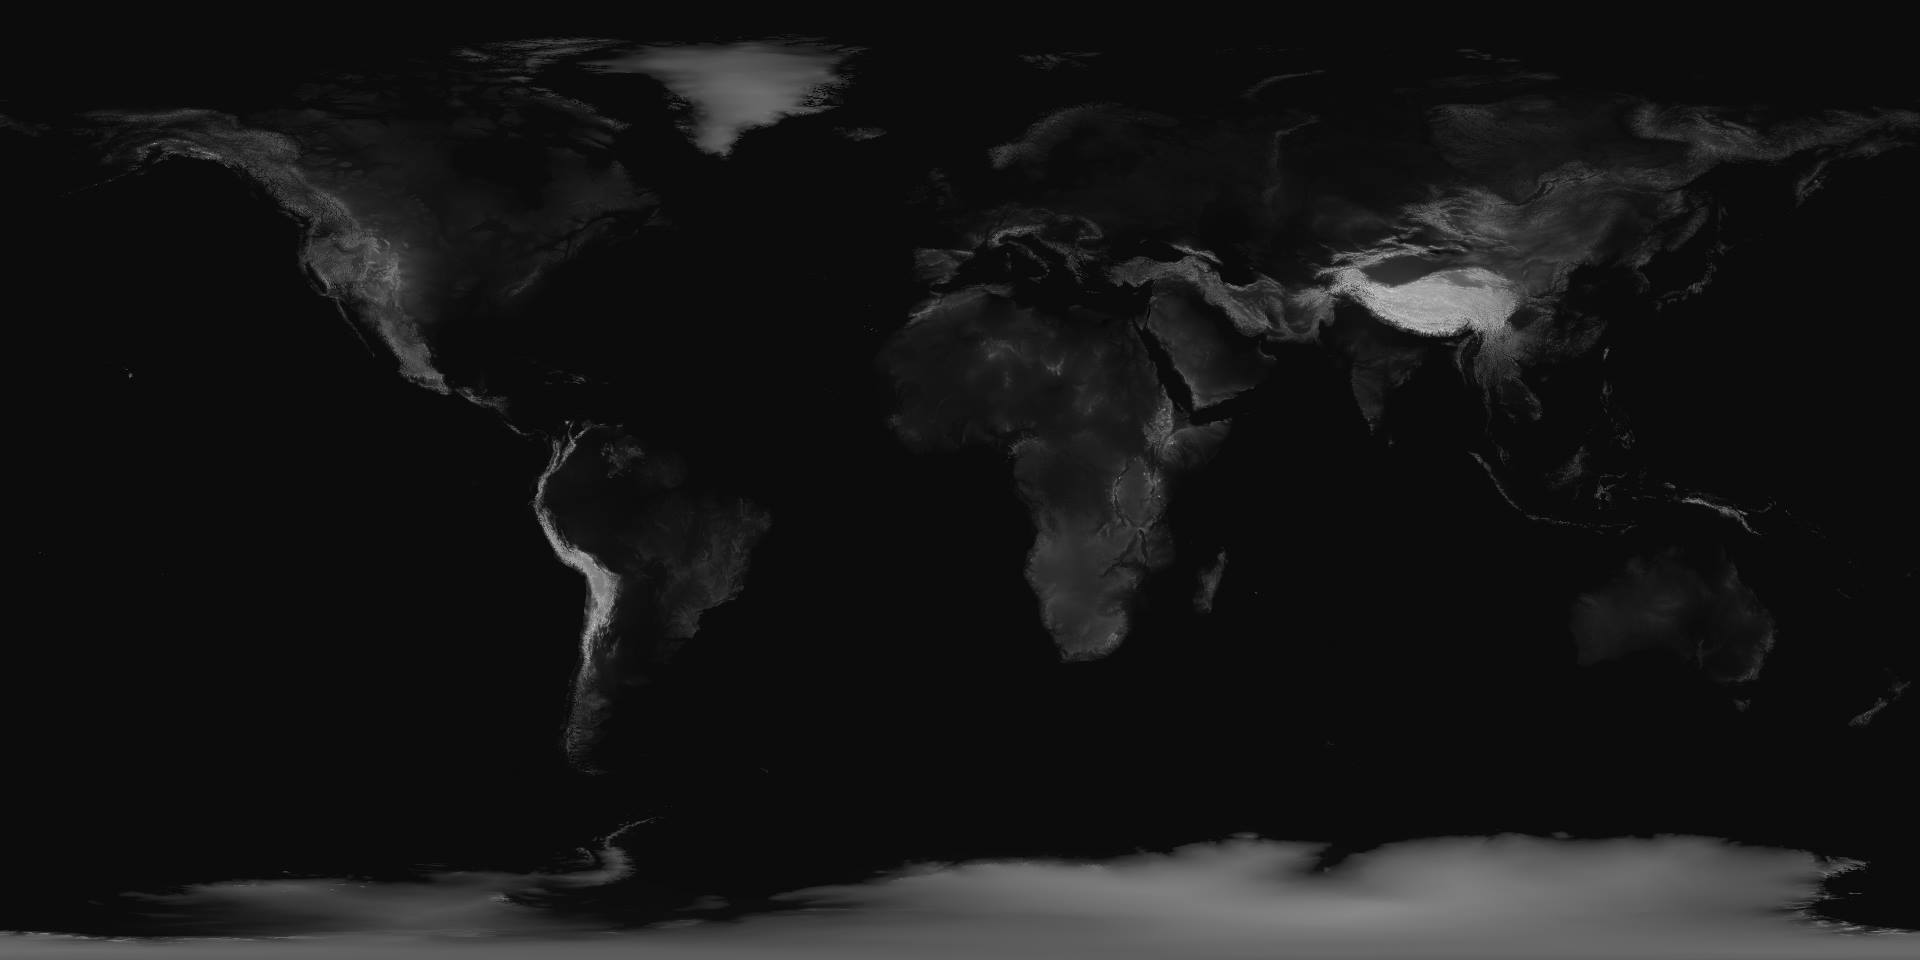
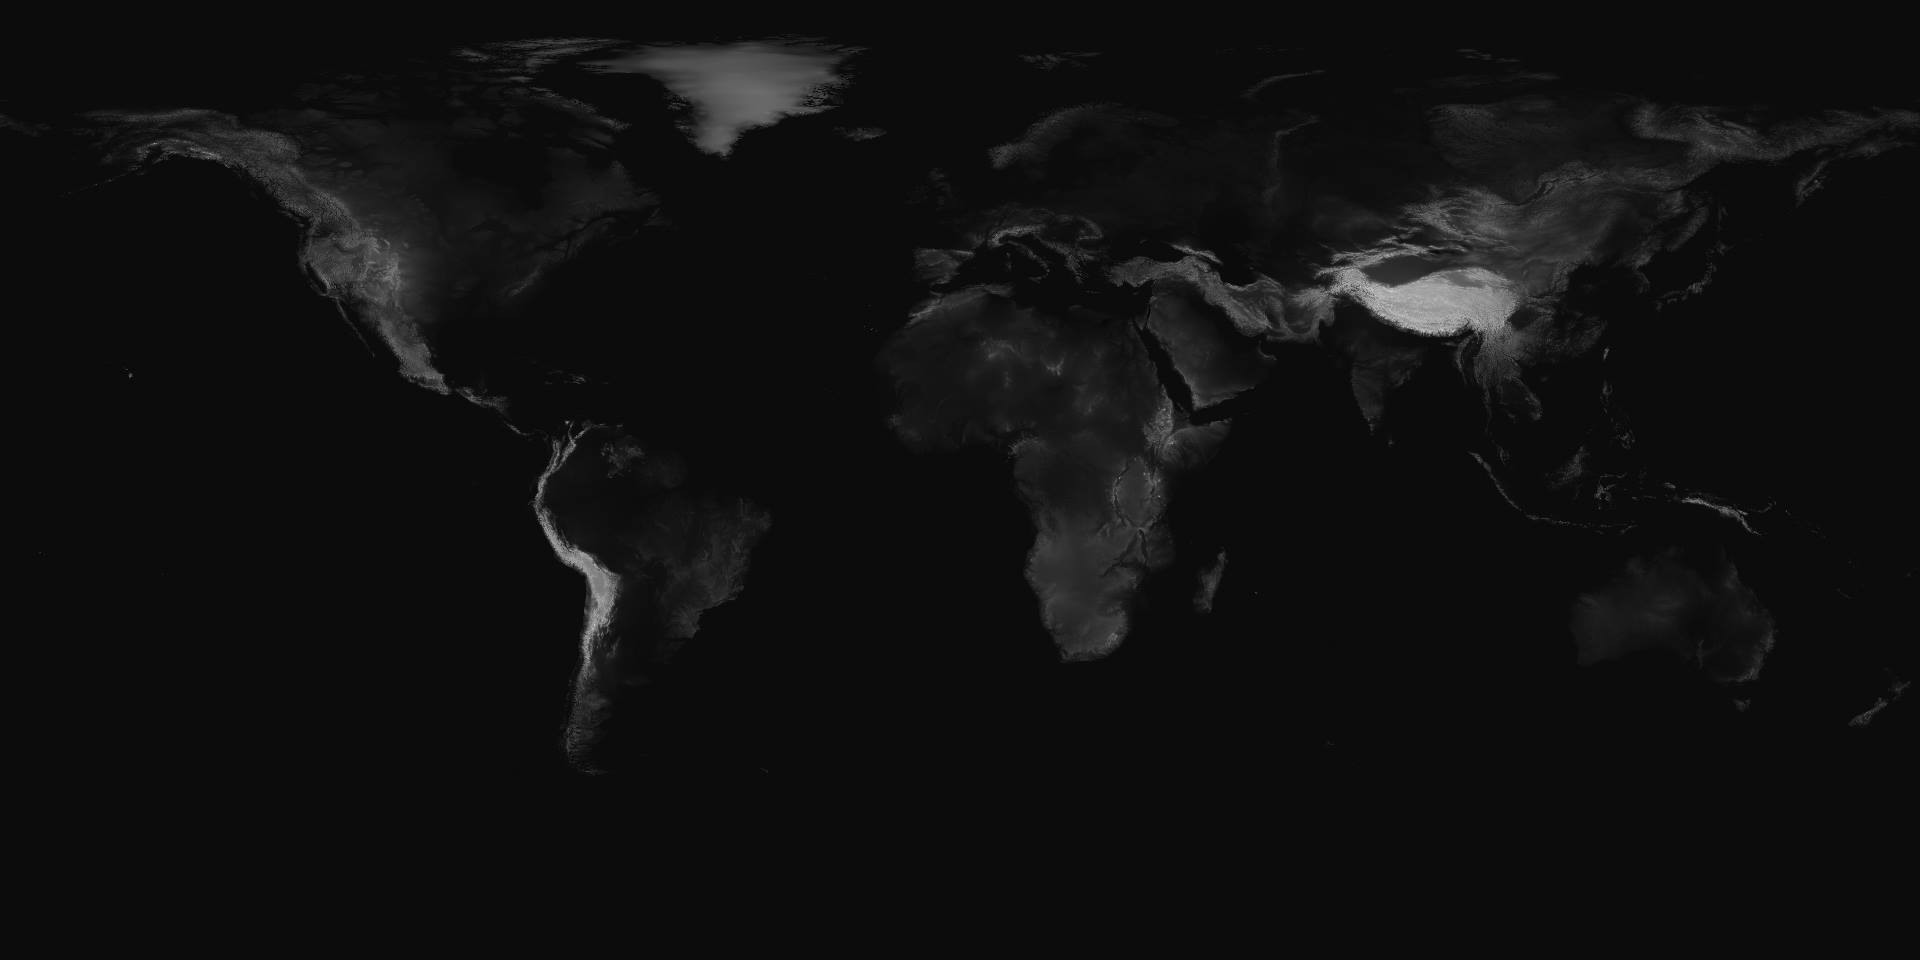
remove antarctica from image, change `f` background color to blend

Changed region(s): [[0.0, 0.8438, 1.0, 1.0]]

diff --git a/assets/css/main.css b/assets/css/main.css
@@ -124,7 +124,7 @@ a:after {
 /* Footer Wrap */
 
 #f {
-	background: #1a1a1a;
+	background: #0c0c0c;
 	padding-top: 70px;
 	padding-bottom: 70px;
 	text-align: center
